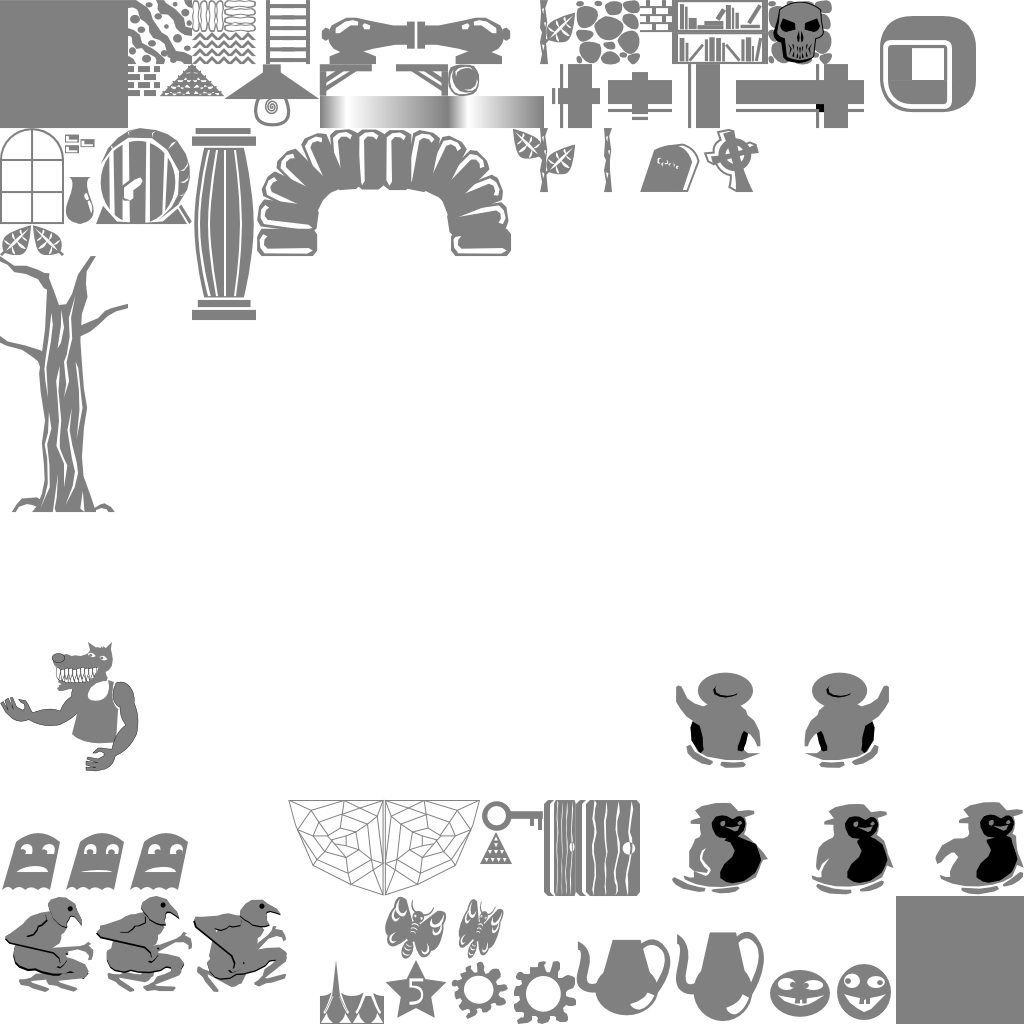
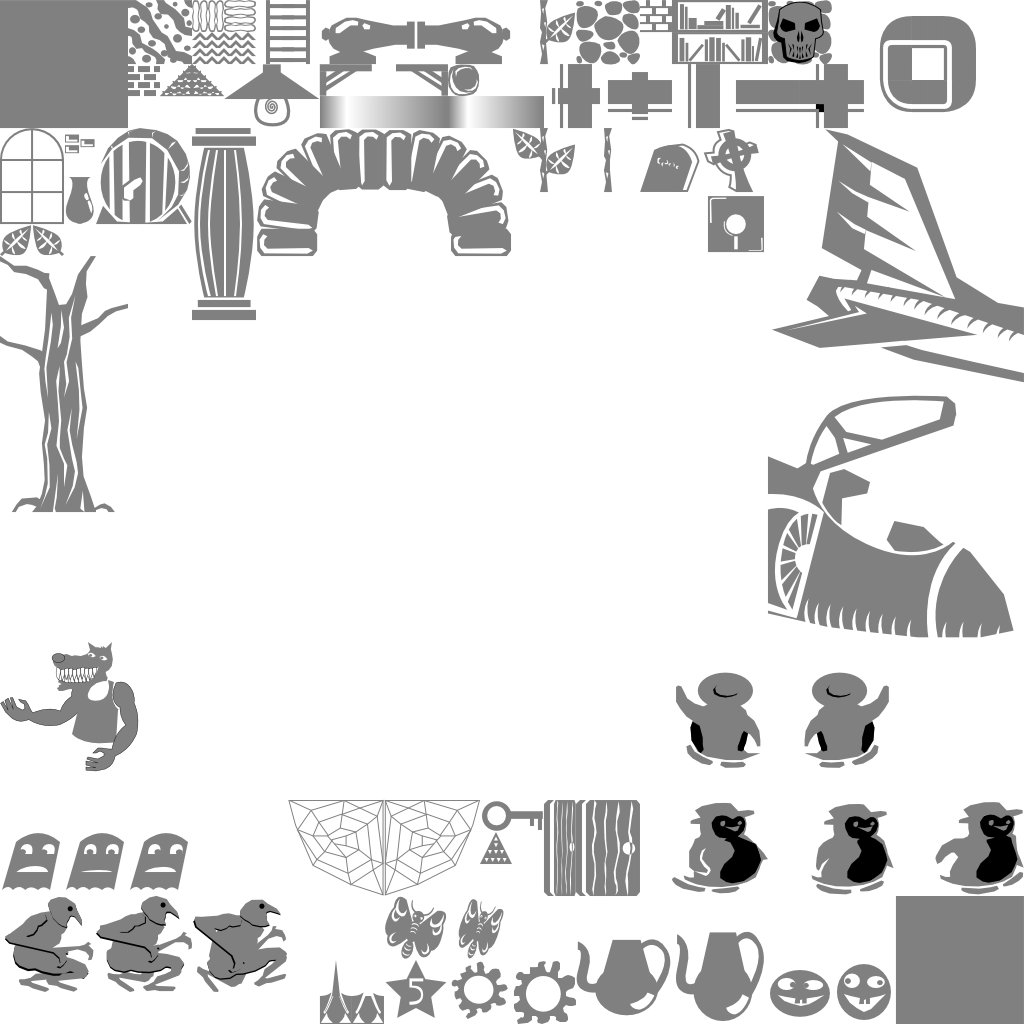
last two rooms

Changed region(s): [[0.75, 0.125, 1.0, 0.625], [0.6875, 0.1875, 0.75, 0.25]]

diff --git a/src/rooms.js b/src/rooms.js
@@ -29,7 +29,9 @@ var WORLD = {
 	"crypt2": ["crypt", "crypt3", "pipeline2", null],
 	"crypt3": ["crypt2", "down3", "stairs", null],
 	"outside": ["down2", "graves1", null, null],
-	"graves1": ["outside", null, null, null]
+	"graves1": ["outside", "graves2", null, null],
+	"graves2": ["graves1", "cave", null, null],
+	"cave": ["graves2", null, null, null]
 
 };
 
@@ -60,7 +62,9 @@ var DESCRIPTIONS = {
 	crypt2: "Forgotten crypts",
 	crypt3: "Forgotten crypts",
 	outside: "In the Ravine",
-	graves1: "The old cemetery"
+	graves1: "The old cemetery",
+	graves2: "The old cemetery",
+	cave: "Under the hill"
 };
 
 // rooms cache

diff --git a/src/textures.js b/src/textures.js
@@ -125,7 +125,10 @@ var BLOCKS = [
 	["turquoise", "ghost1"],
 	["white", "skull"],
 	["white", "grave1"],
-	["white", "grave2"]
+	["white", "grave2"],
+	["white", "plane1"],
+	["white", "plane2"],
+	["turquoise", "disk"]
 ];
 
 EXTRA_INFO = {
@@ -241,6 +244,12 @@ EXTRA_INFO = {
         decor: true
     },
 	"grave2": {
+        decor: true
+    },
+	"plane1": {
+        decor: true
+    },
+	"plane2": {
         decor: true
     }
 };
